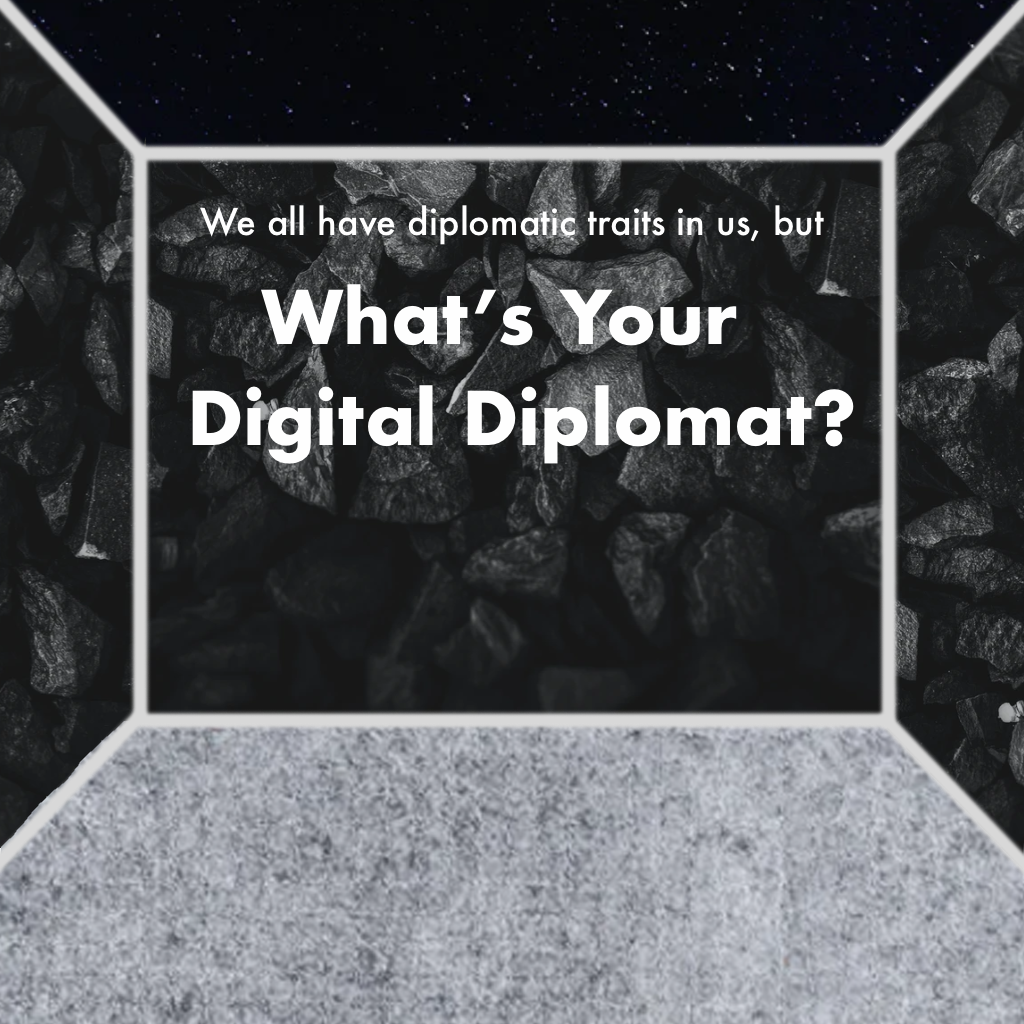
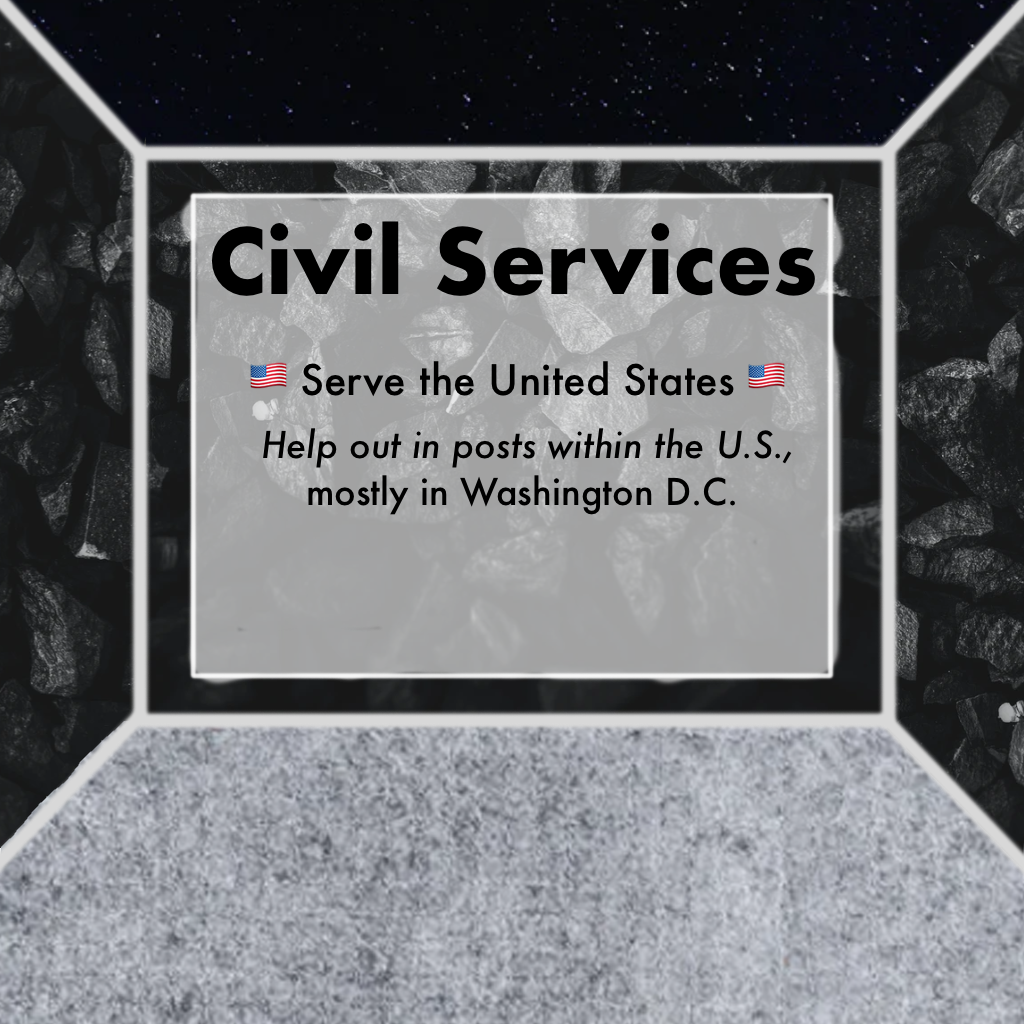
added black room wt top

Changed region(s): [[0.1562, 0.1875, 0.8438, 0.6875]]

diff --git a/impactHack/js/roomElems.js b/impactHack/js/roomElems.js
@@ -14,7 +14,7 @@ var parameters, viewer, radius, button, position, infospot, timerId, easingItem,
   };
 
   // Init rooms
-  blackRoom = new PANOLENS.ImagePanorama('https://michelleFae.github.io/impactHack/assets/cubeWalls/blackRoom/walls/blackRoomReal.png');
+  blackRoom = new PANOLENS.ImagePanorama('https://michelleFae.github.io/impactHack/assets/cubeWalls/blackRoom/blackRoomWtTop.png');
   whiteRoom = new PANOLENS.ImagePanorama('https://michelleFae.github.io/impactHack/assets/cubeWalls/whiteRoom/resizedImage/whiteRoomEmpty.png');
   redRoom = new PANOLENS.ImagePanorama('https://michelleFae.github.io/impactHack/assets/cubeWalls/redRoom/redRoomEmpty.png');
   blueRoom = new PANOLENS.ImagePanorama('https://michelleFae.github.io/impactHack/assets/cubeWalls/blueRoom/walls/BlueRoomEmpty1.png');
@@ -51,7 +51,7 @@ var parameters, viewer, radius, button, position, infospot, timerId, easingItem,
   // Civil Service Room Items
 
   // Insert Info Spots
-  linkPanoInfoSpotWtInfo (new THREE.Vector3(-109.84, 5000.00, -228.22), "general-info-container", true, blackRoom, "General Information", PANOLENS.DataImage.Info);
+  //linkPanoInfoSpotWtInfo (new THREE.Vector3(-109.84, 5000.00, -228.22), "general-info-container", true, blackRoom, "General Information", PANOLENS.DataImage.Info);
   linkPanoInfoSpotWtInfo (new THREE.Vector3(4000.00, 723.01, 4.34), "FSO-container", true, blackRoom, "Foreign Service Officers", PANOLENS.DataImage.Info);
   linkPanoInfoSpotWtInfo(new THREE.Vector3(-143.87, 546.09, -5000.00),"desc-container" , true, blackRoom, "Foreign Service Specialists", PANOLENS.DataImage.Info);
   linkPanoInfoSpotWtInfo(new THREE.Vector3(-4999.97, 742.82, 76.35), 'desc-container', true,  blackRoom, "Civil Service Officers", PANOLENS.DataImage.Info);
@@ -67,3 +67,18 @@ var parameters, viewer, radius, button, position, infospot, timerId, easingItem,
 
   // Set the navbar list to visible for the first room
   setNavBarListInView(blackRoom);
+
+
+var lookAtPositions = [
+  new THREE.Vector3(-109.84, 5000.00, -228.22)
+];
+
+blackRoom.addEventListener( 'enter-fade-start', function(){
+  viewer.tweenControlCenter( lookAtPositions[0], 0 );
+} );
+
+
+
+
+
+
